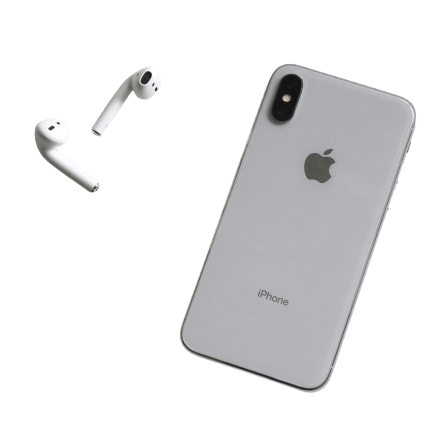
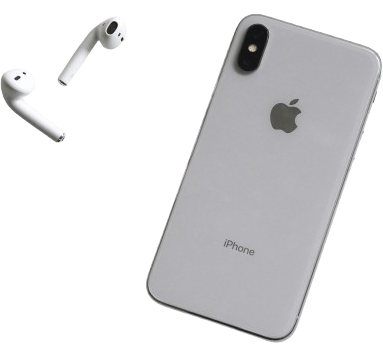
correccion texto y tamaño img hero

diff --git a/assets/css/main.css b/assets/css/main.css
@@ -156,8 +156,8 @@ h6 {
 }
 
 .hero img {
-  margin: 20px 0; /* Espacio arriba y abajo */
-  max-height: 300px; /* Tamaño máximo */
+  margin: 0px 0; /* Espacio arriba y abajo */
+  max-height: 500px; /* Tamaño máximo */
 }
 
 /* Tamaño del logo predeterminado */
@@ -2096,8 +2096,8 @@ section,
 
 .hero .content-col .content .promo-badge {
   display: inline-block;
-  background-color: rgba(0, 128, 128, 0.15); /* Color similar al de la imagen */
-  color: #104D43; /* Color similar al de la imagen */
+  background-color: #104D43; /* Color similar al de la imagen */
+  color: #ffffff; /* Color similar al de la imagen */
   font-size: 0.875rem;
   font-weight: 600;
   padding: 0.5rem 1rem;

diff --git a/templates/categorias-swiper.php b/templates/categorias-swiper.php
@@ -38,8 +38,8 @@ function obtenerImagenAleatoria($db, $id_categoria)
 <section id="category-cards" class="category-cards section">
     <div class="container" data-aos="fade-up" data-aos-delay="100">
         <div class="section-title">
-            <h2>CATEGORÍAS</h2>
-            <p>Nuestras Categorías</p>
+            <h2>Productos</h2>
+            <p>Ordenados por categorías</p>
         </div>
 
         <div class="category-cards-slider swiper init-swiper">
